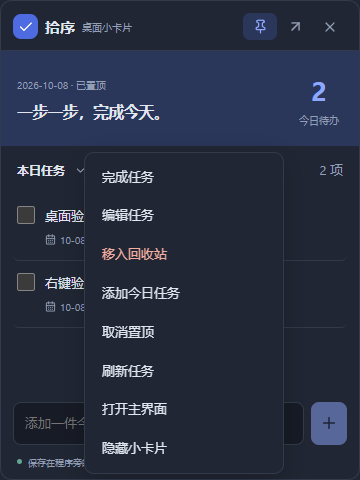
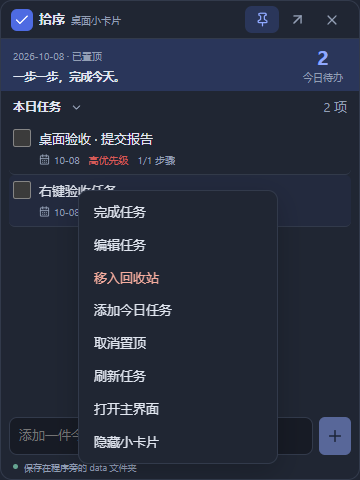
style: compact desktop card layout

diff --git a/src/styles/card.css b/src/styles/card.css
@@ -1,16 +1,16 @@
 body:has(.desktop-card){margin:0;min-width:0;overflow:hidden;background:var(--surface,#fff)}
 .desktop-card{height:100vh;display:flex;flex-direction:column;background:var(--surface,#fff);color:var(--text,#24324b);border:1px solid var(--border,#e5e9f2);border-radius:12px;overflow:hidden;font-size:13px}
-.card-header{display:flex;align-items:center;justify-content:space-between;padding:12px 12px 10px;border-bottom:1px solid var(--border,#e5e9f2);flex-shrink:0}
-.card-brand{display:flex;align-items:center;gap:7px;flex:1;cursor:move;user-select:none}.card-brand strong{font-size:15px}.card-logo{display:flex;align-items:center;justify-content:center;width:25px;height:25px;border-radius:8px;background:#4e6be2;color:white;pointer-events:none}.card-drag-hint{font-size:10px;color:var(--muted,#788397)}.card-actions{display:flex;gap:1px}.card-actions .icon-button{width:27px;height:27px;padding:5px}.card-actions [aria-pressed=true]{color:var(--accent,#4e6be2);background:var(--accent-soft,#edf1ff)}
-.card-overview{display:flex;align-items:center;justify-content:space-between;padding:18px 16px;background:var(--accent-soft,#edf1ff);gap:8px}.card-overview span{font-size:10px;color:var(--muted,#788397)}.card-overview h1{font-size:16px;line-height:1.4;margin:7px 0 0}.card-counter{display:flex;flex-direction:column;text-align:center;min-width:48px}.card-counter strong{font-size:27px;color:var(--accent,#4e6be2)}.card-filter{display:flex;align-items:center;justify-content:space-between;padding:12px 16px;color:var(--muted,#788397)}.card-filter label{position:relative;display:flex;align-items:center}.card-filter select{background:transparent;border:0;font-size:12px;font-weight:600;color:var(--text,#24324b);padding:0 22px 0 0;appearance:none;cursor:pointer}.card-filter svg{position:absolute;right:0;pointer-events:none}
-.card-task-list{flex:1;overflow:auto;padding:0 12px;min-height:0}.card-task{display:flex;gap:10px;padding:12px 4px;border-bottom:1px solid var(--border,#e5e9f2);align-items:flex-start}.card-task>input{margin:3px 0 0;width:16px;height:16px;flex-shrink:0;accent-color:#4e6be2}.card-task>div{min-width:0;flex:1}.card-task-title{background:none;border:0;padding:0;text-align:left;font:inherit;line-height:1.5;color:inherit;cursor:pointer;overflow-wrap:anywhere}.card-task-meta{display:flex;gap:9px;flex-wrap:wrap;font-size:10px;color:var(--muted,#788397);margin-top:5px}.card-task-meta span{display:flex;gap:4px;align-items:center}.card-task-meta .is-overdue{color:#d35b58}.card-empty{display:flex;flex-direction:column;align-items:center;justify-content:center;padding:36px 8px;color:var(--muted,#788397);text-align:center}.card-empty p{font-size:13px;color:var(--text,#24324b);margin:14px 0 7px}.card-empty span{font-size:11px}.card-more{display:block;margin:12px auto;border:0;background:transparent;color:var(--accent,#4e6be2);cursor:pointer}
-.card-error{padding:8px 12px;margin:0 12px 8px;background:#fff0ef;color:#ae3936;border-radius:6px;font-size:11px;overflow-wrap:anywhere}.card-error button{border:0;background:none;color:inherit;text-decoration:underline;cursor:pointer;margin-left:8px}.card-quick-add{display:flex;gap:7px;padding:12px 12px 8px;flex-shrink:0}.card-quick-add input{flex:1;min-width:0;padding:10px 11px;background:var(--bg,#f7f8fc);color:inherit;border:1px solid var(--border,#e5e9f2);border-radius:8px;font:inherit}.card-quick-add button{display:flex;align-items:center;justify-content:center;background:#4e6be2;color:white;border:0;border-radius:8px;width:36px;cursor:pointer}.card-quick-add button:disabled{opacity:.5;cursor:default}.card-footer{padding:2px 16px 10px;display:flex;gap:6px;align-items:center;color:var(--muted,#788397);font-size:9px;flex-shrink:0}
+.card-header{display:flex;align-items:center;justify-content:space-between;padding:5px 10px;border-bottom:1px solid var(--border,#e5e9f2);flex-shrink:0}
+.card-brand{display:flex;align-items:center;gap:6px;flex:1;cursor:move;user-select:none}.card-brand strong{font-size:13px}.card-logo{display:flex;align-items:center;justify-content:center;width:22px;height:22px;border-radius:6px;background:#4e6be2;color:white;pointer-events:none}.card-drag-hint{font-size:10px;color:var(--muted,#788397)}.card-actions{display:flex;gap:1px}.card-actions .icon-button{width:27px;height:27px;padding:5px}.card-actions [aria-pressed=true]{color:var(--accent,#4e6be2);background:var(--accent-soft,#edf1ff)}
+.card-overview{display:flex;align-items:center;justify-content:space-between;padding:6px 12px;background:var(--accent-soft,#edf1ff);gap:8px}.card-overview span{font-size:10px;color:var(--muted,#788397)}.card-overview h1{font-size:12px;line-height:1.4;margin:2px 0 0}.card-counter{display:flex;flex-direction:column;text-align:center;min-width:48px}.card-counter strong{font-size:20px;line-height:1.2;color:var(--accent,#4e6be2)}.card-filter{display:flex;align-items:center;justify-content:space-between;padding:4px 12px;color:var(--muted,#788397)}.card-filter label{position:relative;display:flex;align-items:center}.card-filter select{background:transparent;border:0;font-size:12px;font-weight:600;color:var(--text,#24324b);padding:0 22px 0 0;appearance:none;cursor:pointer}.card-filter svg{position:absolute;right:0;pointer-events:none}
+.card-task-list{flex:1;overflow:auto;padding:0 8px;min-height:0}.card-task{display:flex;gap:8px;padding:6px 4px;border-bottom:1px solid var(--border,#e5e9f2);align-items:flex-start}.card-task>input{margin:3px 0 0;width:16px;height:16px;flex-shrink:0;accent-color:#4e6be2}.card-task>div{min-width:0;flex:1}.card-task-title{background:none;border:0;padding:0;text-align:left;font:inherit;line-height:1.5;color:inherit;cursor:pointer;overflow-wrap:anywhere}.card-task-meta:empty{display:none}.card-task-meta{display:flex;gap:9px;flex-wrap:wrap;font-size:10px;color:var(--muted,#788397);margin-top:2px}.card-task-meta span{display:flex;gap:4px;align-items:center}.card-task-meta .is-overdue{color:#d35b58}.card-empty{display:flex;flex-direction:column;align-items:center;justify-content:center;padding:22px 8px;color:var(--muted,#788397);text-align:center}.card-empty p{font-size:13px;color:var(--text,#24324b);margin:8px 0 4px}.card-empty span{font-size:11px}.card-more{display:block;margin:6px auto;border:0;background:transparent;color:var(--accent,#4e6be2);cursor:pointer}
+.card-error{padding:8px 12px;margin:0 12px 8px;background:#fff0ef;color:#ae3936;border-radius:6px;font-size:11px;overflow-wrap:anywhere}.card-error button{border:0;background:none;color:inherit;text-decoration:underline;cursor:pointer;margin-left:8px}.card-quick-add{display:flex;gap:6px;padding:6px 8px 4px;flex-shrink:0}.card-quick-add input{flex:1;min-width:0;padding:6px 9px;background:var(--bg,#f7f8fc);color:inherit;border:1px solid var(--border,#e5e9f2);border-radius:8px;font:inherit}.card-quick-add button{display:flex;align-items:center;justify-content:center;background:#4e6be2;color:white;border:0;border-radius:6px;width:32px;cursor:pointer}.card-quick-add button:disabled{opacity:.5;cursor:default}.card-footer{padding:1px 12px 5px;display:flex;gap:6px;align-items:center;color:var(--muted,#788397);font-size:9px;flex-shrink:0}
 
 .card-filter select{min-height:24px}.card-quick-add button{background:var(--accent);color:var(--on-accent)}
 .card-task{border-radius:6px;transition:background-color .15s ease}
 .card-task:hover,.card-task:focus-within{background:var(--accent-soft)}
 .card-context-menu{position:fixed;z-index:1000;width:200px;max-width:calc(100vw - 12px);max-height:calc(100vh - 12px);overflow-y:auto;padding:5px;border:1px solid var(--border);border-radius:10px;background:var(--surface);box-shadow:0 8px 28px #0003}
-.card-context-menu button{display:block;width:100%;border:0;border-radius:6px;padding:9px 12px;text-align:left;background:transparent;color:var(--text);font:inherit;font-size:13px;cursor:pointer}
+.card-context-menu button{display:block;width:100%;border:0;border-radius:6px;padding:6px 10px;text-align:left;background:transparent;color:var(--text);font:inherit;font-size:13px;cursor:pointer}
 .card-context-menu button:hover,.card-context-menu button:focus-visible{background:var(--accent-soft);outline:none}
 .card-context-menu button.danger{color:var(--danger)}
 .card-context-menu button:disabled{opacity:.45;cursor:default;background:transparent}
